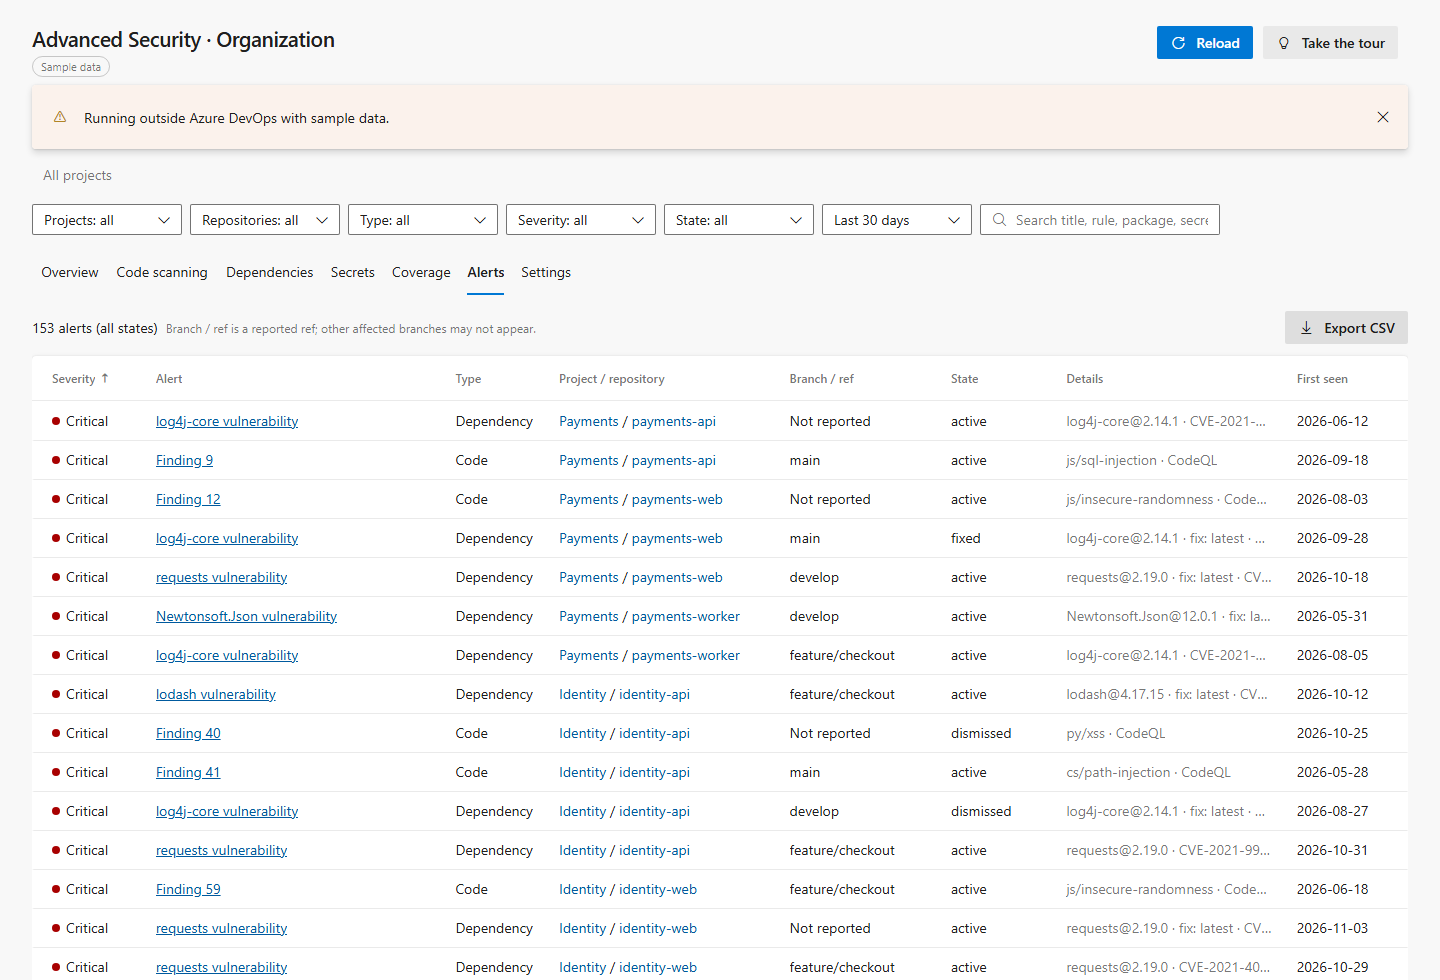
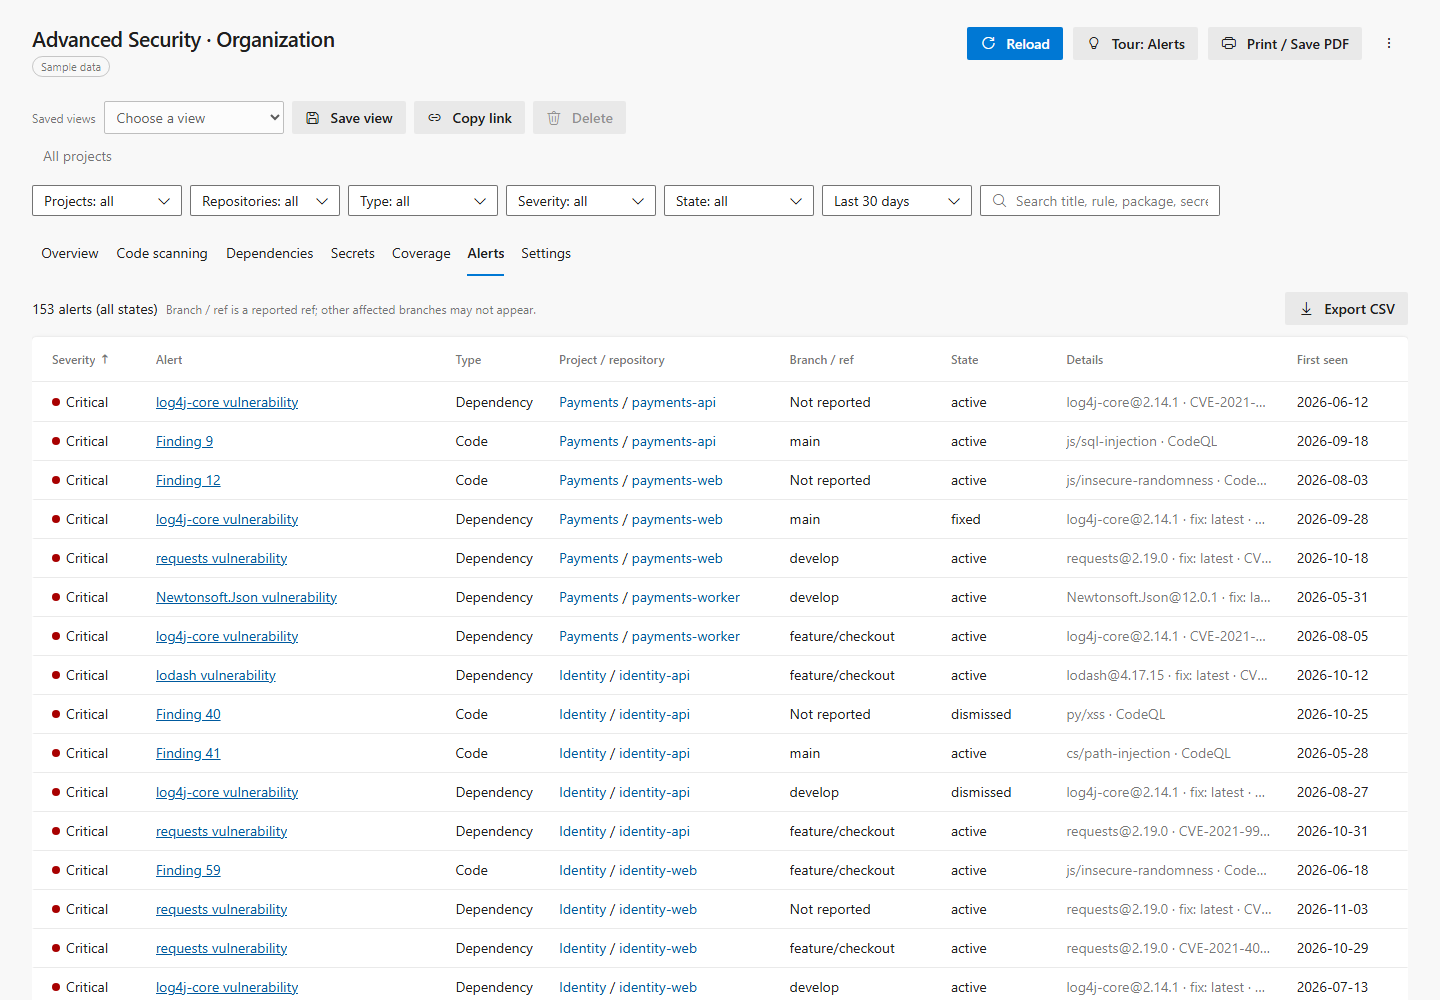
Harden repository security and GitHub Actions (#2)
* security: harden GitHub workflows and dependency controls

Pin official actions to immutable commits, isolate release and Pages write permissions, add dependency review and scheduled Dependabot updates, and publish the private reporting policy.

* chore: update images and enhance overview documentation

* security: pin nested Pages artifact dependencies

Use the maintained Pages upload action whose composite upload step is pinned to a full commit SHA, preserving compatibility with SHA-pinning enforcement.

* security: scope Pages metadata access to read-only builds

---------

diff --git a/README.md b/README.md
@@ -1,3 +1,5 @@
+![Advanced Security Dashboard logo](apps/docs/public/icon.png)
+
 # GHAzDO Dashboard
 
 An Azure DevOps Services extension that brings together **GitHub Advanced Security for Azure DevOps** alerts (code scanning, dependency scanning and secret scanning) for every project and repository into one dashboard.
@@ -56,6 +58,9 @@ To preview the docs site, run `npm run docs:dev`.
 | `ci.yml` | Push to `main`, PRs, manual | Validate, build Bicep, package the VSIX and `functions.zip`, upload them as an artifact |
 | `release.yml` | Tag `v*.*.*`, or manual with a version | Package with that version, create a GitHub release (VSIX, `functions.zip`, `main.json`, `SHA256SUMS.txt`), optionally publish to the Marketplace, redeploy the docs |
 | `pages.yml` | Push to `main` under `apps/docs`, manual, called by release | Build `apps/docs` and deploy it to GitHub Pages |
+| `dependency-review.yml` | Pull requests to `main` | Reject newly introduced high or critical vulnerable dependencies |
+
+Actions are pinned to immutable commit SHAs. Dependabot checks npm dependencies and action pins weekly. Build jobs use read-only tokens; release publishing and Pages deployment receive write permissions only in isolated jobs. Manual releases run from `main`.
 
 One-time setup:
 - Set *Settings → Pages → Source* to **GitHub Actions**.
@@ -96,6 +101,8 @@ Then:
 Snapshot blobs expire after 370 days through a lifecycle rule. That rule also removes data for repositories that were deleted.
 
 ## Security notes
+
+See [SECURITY.md](SECURITY.md) for supported versions and private vulnerability reporting.
 
 - **Admin checks:** in browser-only mode, the admin-only Settings UI is gated client-side through a Graph membership check. Shared settings are stored in extension data, which any user of the extension can technically write. Treat those settings as configuration, not as a security boundary. The backend URL is always checked against the build-time allowlist.
 - **Backend authentication:** the backend checks the extension app token (HS256, signed with the extension secret), enforces a CORS allowlist, and uses HMAC-signed paging cursors.

diff --git a/SECURITY.md b/SECURITY.md
@@ -1,0 +1,22 @@
+# Security policy
+
+## Supported versions
+
+Security fixes are provided in the latest released version. Use the latest
+extension and backend packages together; older releases are not maintained
+separately.
+
+## Reporting a vulnerability
+
+Report suspected vulnerabilities privately through
+[GitHub's vulnerability reporting form](https://github.com/congiuluc/GHAzDO-Dashboard/security/advisories/new).
+Do not disclose vulnerabilities, credentials, secret values, or customer data
+in public issues, discussions, or pull requests.
+
+Include affected versions, reproduction steps, the expected security impact,
+and a minimal example with synthetic or redacted data. If a credential was
+exposed, revoke or rotate it immediately rather than waiting for a fix.
+
+The maintainer will coordinate investigation and disclosure through the private
+report. Response and remediation times depend on the severity and available
+maintainer capacity; no response-time guarantee is provided.

diff --git a/apps/extension/overview.md b/apps/extension/overview.md
@@ -1,3 +1,5 @@
+![Advanced Security Dashboard logo](static/icon.png)
+
 # Advanced Security Dashboard
 
 One place to see **GitHub Advanced Security for Azure DevOps** alerts across every project and repository in your organization.
